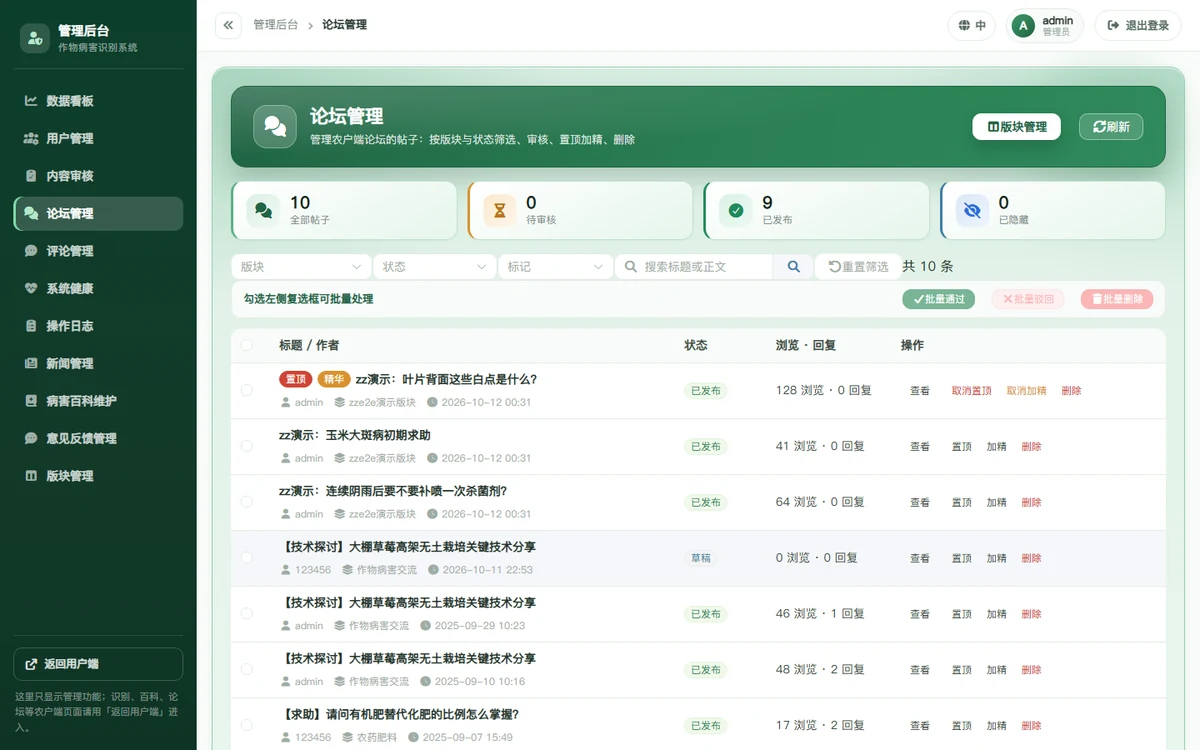
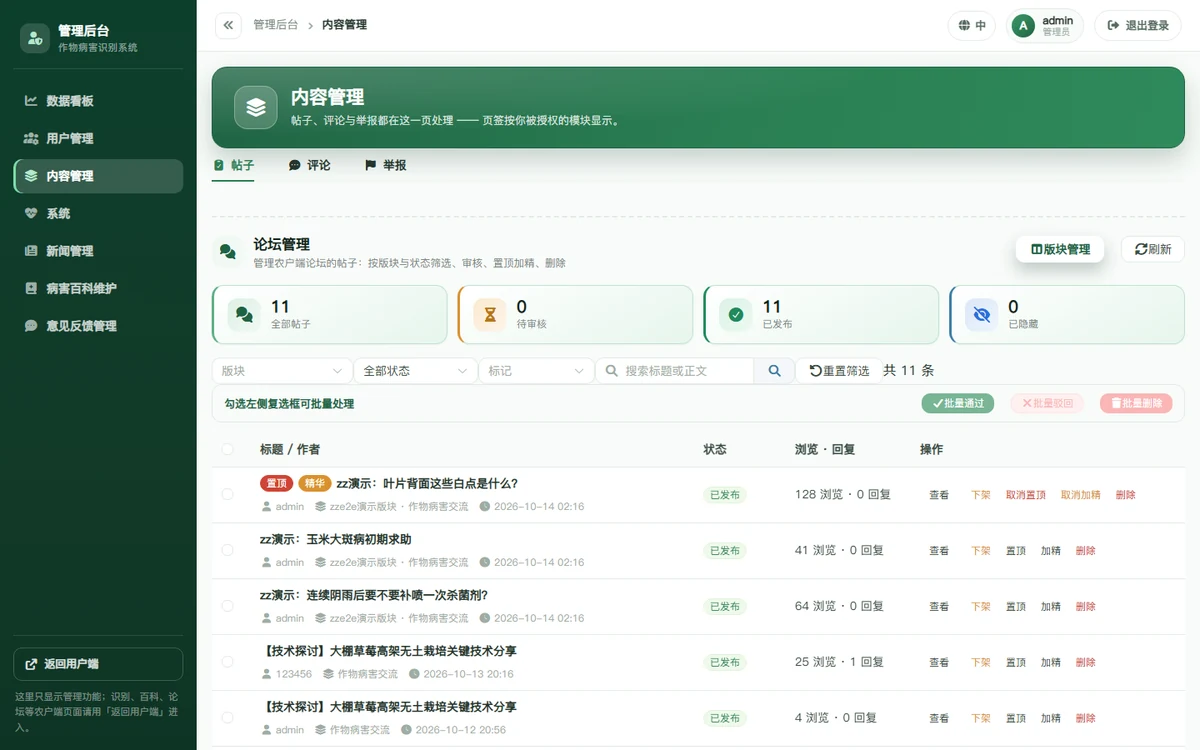
chore(配图): 重截 README 全部截图 —— 图上还是第 183 批就合并掉的旧后台结构（第 189 批收尾）
用户问"GitHub 上的图片是不是也要重新修改一下"，查证：**要，而且问题比预想的大**。
那 9 张图是第 160 批（10-12）截的，而 183~186 批把管理端入口合并了，于是图上还是
**早就没有的六个侧栏入口**（内容审核 / 论坛管理 / 评论管理 / 系统健康 / 操作日志 / 版块管理）。
根因在截图脚本还访问**旧地址**：

| 脚本里的地址 | 实际会发生什么 |
|---|---|
| /admin/forum | 重定向到「内容管理 · 帖子」—— 截出来根本不是"论坛管理"那一屏 |
| /admin/comments + 切"已删除" | 落在**帖子**页签上，切筛选没生效，截的不是"评论可恢复" |
| /admin/audit-logs | 现在是「系统 · 操作日志」页签 |

改动：
· capture-docs-shots.mjs：地址全部改成**直接落到页签**
  （/admin/content?tab=posts|comments、/admin/health?tab=health|audit）；
  新增一张 admin-health（README 的图说里一直有"系统健康"，但那张图从来没进过库）；
  截"帖子"页签前隐藏审核队列区块，好让"论坛管理"进画面；
· 截图内容清理（都必须在**截图之前**跑，放收尾清理里没用）：
  · 演示版块名 zze2e演示版块 → zze2e演示版块 · 作物病害交流（它显示在每一行帖子上）；
  · 历次 E2E 留在操作日志里的机器名：原来只删 actor_repr 以 zze2e 开头的，
    而各批前缀不同（zze2e_* / zzfixc_*…）；另有一类是**操作人为 admin、目标才是测试数据**
    （删除识别记录 #1124（zz_detE2E_user · …）），zz 在**目标列**而不是 detail ——
    改为 detail / target_repr / target_id 三字段一起查；
· optimize_readme_images.py：ADMIN_SHOTS 加上 admin-health；
· README「界面」一节重排为 4 行 8 格（原来 6 格，且图说是"论坛管理（后台）"这种旧页面名），
  并补一句"改了界面结构后请重跑这两个脚本"。

验证：check_line_endings ✅ 全部 LF ｜ strip_bom --check ✅ 无 BOM ｜
refresh_audit_report --check ✅ 已最新 ｜ check_md_links ✅ 24 个相对链接与图片都在且已入库
（这张检查正是"图存在但没入库 → GitHub 上 404"的护栏，本次它先报了 admin-health 未入库，
提交后即通过）。docs/images/ 现 9 张 WebP、合计 525 KB（原来 8 张 369 KB，新增一张 53 KB）。

diff --git a/docs/tools/optimize_readme_images.py b/docs/tools/optimize_readme_images.py
@@ -36,11 +36,17 @@ SHOTS = ROOT / 'frontend' / 'dsh-shots'
 OUT = ROOT / 'docs' / 'images'
 
 #: 要入库的管理端截图：源文件名 → 目标文件名（不含扩展名）
+#:
+#: ⚠ 第 189 批：`admin-health`（「系统 · 系统健康」）是**新增**的一张 ——
+#: README 的图说里一直有"系统健康"，但那张图从来没进过库（第 185 批把它并进「系统」页之后
+#: 更是连入口都变了）。源文件由 `frontend/scripts/capture-docs-shots.mjs` 生成；
+#: 其余几张的地址也在这一批从旧地址（/admin/forum、/admin/audit-logs…）改成了页签地址。
 ADMIN_SHOTS = {
     'admin-console-dashboard.png': 'admin-dashboard',
     'admin-forum.png': 'admin-forum',
     'admin-audit-log.png': 'admin-audit-log',
     'admin-comment-restore.png': 'admin-comment-restore',
+    'admin-health.png': 'admin-health',
 }
 
 #: 农户端（由 capture-docs-shots.mjs 生成，这里只负责缩放与转码）

diff --git a/docs/系统完善记录.md b/docs/系统完善记录.md
@@ -14063,3 +14063,32 @@ allowed = (('pending', 'hidden') if action_name == 'approve'
    Playwright 会报 "Element is outside of the viewport"；要点外面那个 `.el-checkbox` 壳，
    并**点完再断言 `is-checked`**（只 click 不验证状态，等于没验）。
 
+### 六、收尾：README 的截图也得重截（同批）
+
+**用户问**："GitHub 上的图片是不是也要重新修改一下"—— 答案是**要**，而且比想象的严重：
+那 9 张图是第 160 批（10-12）截的，而 183~186 批把管理端入口合并了，于是图上还是**早就没有的
+六个侧栏入口**（内容审核 / 论坛管理 / 评论管理 / 系统健康 / 操作日志 / 版块管理）。根因是
+`frontend/scripts/capture-docs-shots.mjs` 还在访问**旧地址**：
+
+| 脚本里的地址 | 实际会发生什么 |
+|---|---|
+| `/admin/forum` | 重定向到「内容管理 · 帖子」—— 截出来根本不是"论坛管理"那一屏 |
+| `/admin/comments` + 切"已删除" | 落在**帖子**页签上，切筛选自然没生效，截的不是"评论可恢复" |
+| `/admin/audit-logs` | 现在是「系统 · 操作日志」页签 |
+
+**改法**：地址全部改成**直接落到页签**（`/admin/content?tab=posts|comments`、
+`/admin/health?tab=health|audit`）；新增一张 `admin-health`（README 的图说里一直有
+"系统健康"，但那张图从来没进过库）；截图前把审核队列区块隐藏，好让"论坛管理"进画面。
+顺手清掉两类"截图里不该出现的东西"：
+
+* 演示版块名从 `zze2e演示版块` 改成 `zze2e演示版块 · 作物病害交流`（它会显示在每一行帖子上）；
+* **历次 E2E 留在操作日志里的机器名**：原来是 `actor_repr__startswith='zze2e'`，
+  而各批脚本前缀不同（`zze2e_*` / `zzfixc_*`…）；更要紧的是有一类是**操作人为 admin、
+  目标才是测试数据**的行（`删除识别记录 #1124（zz_detE2E_user · …）`），
+  zz 在**目标列**而不是 detail 里 —— 必须 `detail / target_repr / target_id` 三个字段一起查。
+  这些清理要放在**截图之前**（放在收尾清理里没用，图已经拍完了）。
+
+**教训（第四条）**：**改了页面结构，配图与截图脚本都要跟着改** ——
+`docs/tools/check_md_links.py` 只能查"图在不在"，查不出"图里是不是早就拆掉的老界面"。
+所以 README 里补了一句"改了界面结构后请重跑这两个脚本"。
+

diff --git a/README.md b/README.md
@@ -57,16 +57,26 @@
     <td width="50%"><b>论坛交流（含置顶/精华）</b><br/><img src="docs/images/farmer-forum.webp" alt="论坛"/></td>
   </tr>
   <tr>
+    <td width="50%"><b>识别结果（真实推理）</b><br/><img src="docs/images/farmer-detect-result.webp" alt="识别结果"/></td>
     <td width="50%"><b>病害百科</b><br/><img src="docs/images/farmer-wiki.webp" alt="百科"/></td>
-    <td width="50%"><b>管理后台·数据看板</b><br/><img src="docs/images/admin-dashboard.webp" alt="看板"/></td>
   </tr>
   <tr>
-    <td width="50%"><b>论坛管理（后台）</b><br/><img src="docs/images/admin-forum.webp" alt="论坛管理"/></td>
-    <td width="50%"><b>操作日志（审计）</b><br/><img src="docs/images/admin-audit-log.webp" alt="操作日志"/></td>
+    <td width="50%"><b>管理后台 · 数据看板</b><br/><img src="docs/images/admin-dashboard.webp" alt="看板"/></td>
+    <td width="50%"><b>管理后台 · 内容管理（帖子 / 评论 / 举报三个页签）</b><br/><img src="docs/images/admin-forum.webp" alt="内容管理"/></td>
+  </tr>
+  <tr>
+    <td width="50%"><b>管理后台 · 系统（健康 / 操作日志 / 版块管理）</b><br/><img src="docs/images/admin-health.webp" alt="系统健康"/></td>
+    <td width="50%"><b>操作日志（审计，只读）</b><br/><img src="docs/images/admin-audit-log.webp" alt="操作日志"/></td>
   </tr>
 </table>
 
-> 管理端截图里另有一张「评论删除可恢复」留证：`docs/images/admin-comment-restore.webp`。
+> 管理端还有一张「评论删除可恢复」留证：`docs/images/admin-comment-restore.webp`
+> —— 软删除的评论会保留原文，管理员可在「内容管理 · 评论」里按需恢复。
+>
+> 截图由 `frontend/scripts/capture-docs-shots.mjs` 用**真实管理员账号 `admin`**
+> 自动重截（演示数据跑完即清），再用 `docs/tools/optimize_readme_images.py`
+> 缩放并转成 WebP 入库 —— 改了界面结构后请重跑这两个脚本，别让 README 挂着过期截图
+> （第 189 批就是因为没重跑，图上还是早就合并掉的六个侧栏入口）。
 
 ---
 

diff --git a/docs/注释覆盖审计报告.md b/docs/注释覆盖审计报告.md
@@ -48,13 +48,13 @@
 |---|---:|---:|---:|---:|---:|---:|
 | frontend/src | 135 | 61206 | 7140 | 11.7% | 7 | 13 |
 | backend/api | 86 | 35902 | 2675 | 7.5% | 19 | 102 |
-| frontend/scripts | 50 | 12513 | 2200 | 17.6% | 0 | 1 |
+| frontend/scripts | 50 | 12548 | 2223 | 17.7% | 0 | 1 |
 | mobile/src | 33 | 5127 | 778 | 15.2% | 0 | 1 |
 | frontend/e2e | 7 | 1690 | 467 | 27.6% | 0 | 0 |
 | backend/crop_disease_backend | 5 | 1268 | 506 | 39.9% | 5 | 1 |
 | mobile/scripts | 8 | 1009 | 200 | 19.8% | 0 | 0 |
 | tools/audit_comments.py | 1 | 723 | 53 | 7.3% | 0 | 5 |
-| **合计** | 325 | 119438 | 14019 | 11.7% | 31 | 123 |
+| **合计** | 325 | 119473 | 14042 | 11.8% | 31 | 123 |
 <!-- AUDIT:SUMMARY:END -->
 
 ### 缺文档字符串最多的文件（脚本生成）
